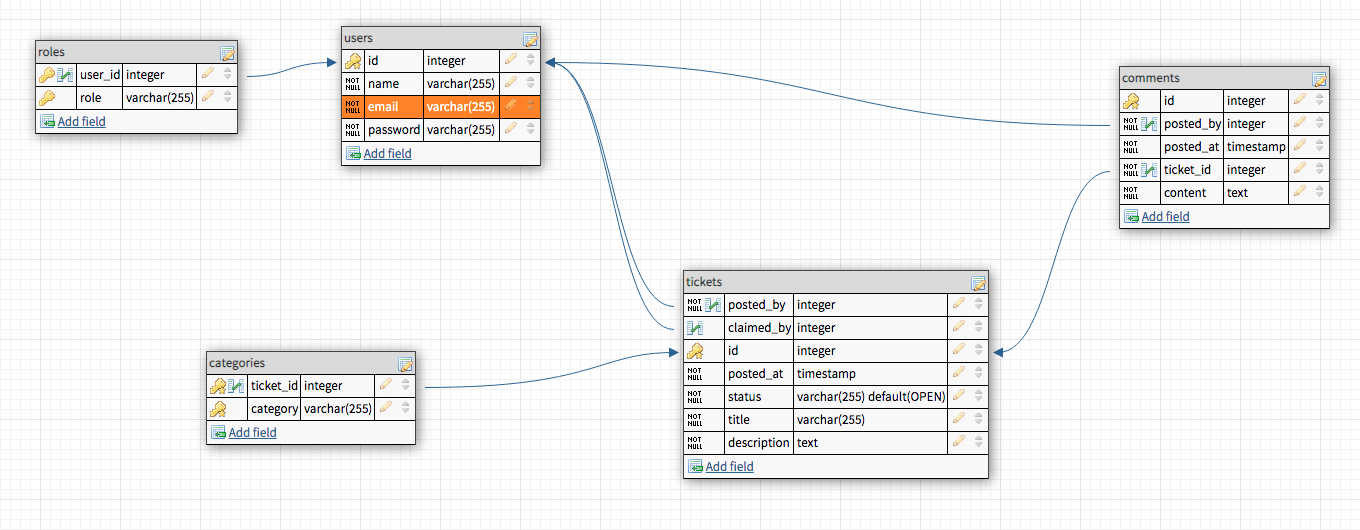
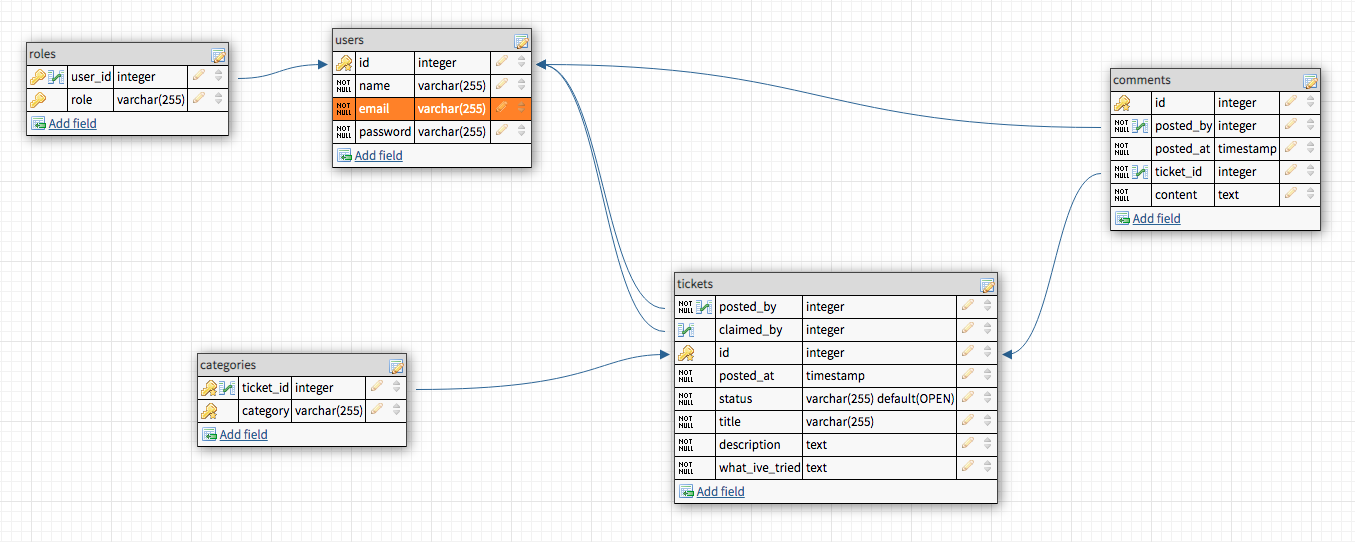
add what_ive_tried

diff --git a/api/tickets/ticket-model.js b/api/tickets/ticket-model.js
@@ -19,6 +19,7 @@ function find() {
       "t.status",
       "t.title",
       "t.description",
+      "t.what_ive_tried",
       "cat.categories",
       "cl.id as claimed_by_id",
       "cl.name as claimed_by_name"
@@ -46,6 +47,7 @@ function findBy(filter) {
       "t.status",
       "t.title",
       "t.description",
+      "t.what_ive_tried",
       "cat.categories",
       "cl.id as claimed_by_id",
       "cl.name as claimed_by_name"
@@ -74,6 +76,7 @@ async function findById(ticketID) {
       "t.status",
       "t.title",
       "t.description",
+      "t.what_ive_tried",
       "cat.categories",
       "cl.id as claimed_by_id",
       "cl.name as claimed_by_name"
@@ -99,6 +102,7 @@ async function findByIdWithComments(ticketID) {
       "t.status",
       "t.title",
       "t.description",
+      "t.what_ive_tried",
       "c.id as claimed_by_id",
       "c.name as claimed_by_name",
       "comments.content",
@@ -111,20 +115,18 @@ async function findByIdWithComments(ticketID) {
     });
 }
 
-// Returns an array of all tickets with user names
-
-function update(ticket, ticketID, userID) {
-  return db("tickets")
-    .where({ id: ticketID, posted_by: userID })
-    .update(ticket)
-    .returning(["id", "posted_at", "status", "title", "description"]);
-}
-
 // Add new ticket to database
 function add(ticket) {
   return db("tickets")
     .insert(ticket)
-    .returning(["id", "posted_at", "status", "title", "description"]);
+    .returning([
+      "id",
+      "posted_at",
+      "status",
+      "title",
+      "description",
+      "what_ive_tried",
+    ]);
 }
 
 // Removes ticket selected by id posted by user with `userID`
@@ -137,7 +139,14 @@ function update(ticket, ticketID, userID) {
   return db("tickets")
     .where({ id: ticketID, posted_by: userID })
     .update(ticket)
-    .returning(["id", "posted_at", "status", "title", "description"]);
+    .returning([
+      "id",
+      "posted_at",
+      "status",
+      "title",
+      "description",
+      "what_ive_tried",
+    ]);
 }
 
 module.exports = {

diff --git a/api/tickets/tickets-router.js b/api/tickets/tickets-router.js
@@ -24,7 +24,7 @@ router.get("/", async (req, res) => {
 
 router.post("/", async (req, res, next) => {
   const userID = req.jwt.id;
-  const { title, description } = req.body;
+  const { title, description, what_ive_tried } = req.body;
   if (!(title && description))
     return next({
       code: 400,
@@ -36,6 +36,7 @@ router.post("/", async (req, res, next) => {
       posted_by: userID,
       title,
       description,
+      what_ive_tried,
     });
     res.status(201).json(ticket);
   } catch (err) {
@@ -47,7 +48,7 @@ router.post("/", async (req, res, next) => {
 router.put("/:id", async (req, res, next) => {
   const userID = req.jwt.id;
   const ticketID = req.params.id;
-  const { title, description } = req.body;
+  const { title, description, what_ive_tried } = req.body;
 
   if (!(title && description))
     return next({
@@ -56,7 +57,7 @@ router.put("/:id", async (req, res, next) => {
     });
 
   try {
-    const changes = { title, description };
+    const changes = { title, description, what_ive_tried };
     const [ticket] = await Tickets.update(changes, ticketID, userID);
     // TODO: handle attempting to update another user's ticket
     res.status(201).json(ticket);

diff --git a/data/seeds/003-tickets.js b/data/seeds/003-tickets.js
@@ -9,6 +9,7 @@ exports.seed = function (knex, Promise) {
           status: "OPEN",
           title: "Ticket 1",
           description: "Ticket 1 description text ",
+          what_ive_tried: "The steps that I've tried for ticket 1",
         },
         {
           id: 2,
@@ -17,6 +18,7 @@ exports.seed = function (knex, Promise) {
           status: "OPEN",
           title: "Ticket 2",
           description: "Ticket 2 description text ",
+          what_ive_tried: "The steps that I've tried for ticket 2",
         },
         {
           id: 3,
@@ -25,6 +27,7 @@ exports.seed = function (knex, Promise) {
           status: "OPEN",
           title: "Ticket 3",
           description: "Ticket 3 description text ",
+          what_ive_tried: "The steps that I've tried for ticket 3",
         },
         {
           id: 4,
@@ -33,6 +36,7 @@ exports.seed = function (knex, Promise) {
           status: "CLOSED",
           title: "Ticket 4",
           description: "Ticket 4 description text ",
+          what_ive_tried: "The steps that I've tried for ticket 4",
         },
       ]);
     })

diff --git a/data/migrations/20200616214439_create_tables.js b/data/migrations/20200616214439_create_tables.js
@@ -39,6 +39,7 @@ exports.up = function (knex) {
         .defaultTo("OPEN");
       tbl.string("title").notNullable();
       tbl.text("description").notNullable();
+      tbl.text("what_ive_tried").notNullable();
     })
     .createTable("categories", (tbl) => {
       tbl

diff --git a/README.md b/README.md
@@ -112,7 +112,8 @@ ___
 ```json
 {
     "title": "new ticket!",
-    "description": "here's the description"
+    "description": "here's the description",
+    "what_ive_tried": "here's what I've tried"
 }
 ```
 
@@ -120,11 +121,12 @@ ___
 **Returns**
 ```json
 {
-    "id": 5,
-    "posted_at": "2020-06-20T17:14:50.285Z",
+    "id": 6,
+    "posted_at": "2020-06-23T02:52:36.742Z",
     "status": "OPEN",
     "title": "new ticket!",
-    "description": "here's the description"
+    "description": "here's the description",
+    "what_ive_tried": "here's what I've tried"
 }
 ```
 ___
@@ -135,7 +137,8 @@ ___
 ```json
 {
     "title": "updated ticket!",
-    "description": "here's the description"
+    "description": "here's the description",
+    "what_ive_tried": "here's what I've tried"
 }
 ```
 
@@ -143,11 +146,12 @@ ___
 **Returns**
 ```json
 {
-    "id": 5,
-    "posted_at": "2020-06-20T17:14:50.285Z",
+    "id": 6,
+    "posted_at": "2020-06-23T02:52:36.742Z",
     "status": "OPEN",
     "title": "updated ticket!",
-    "description": "here's the description"
+    "description": "here's the description",
+    "what_ive_tried": "here's what I've tried"
 }
 ```
 ___
